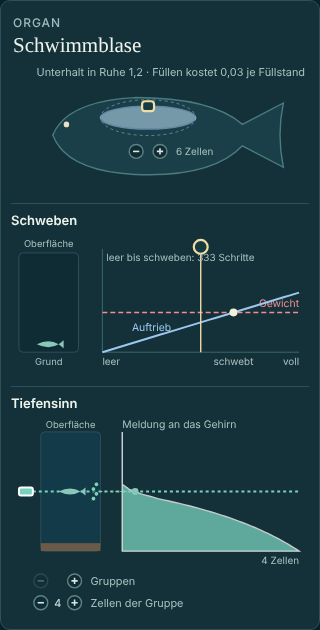
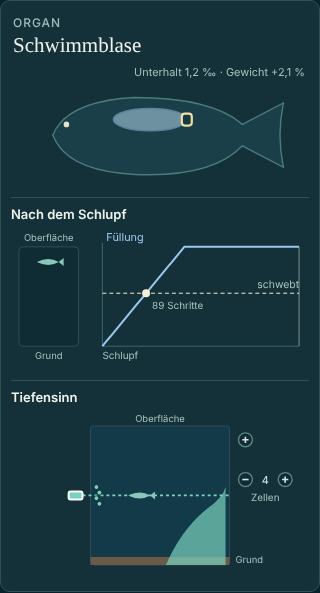
Entwurf Schwimmblase nach Fables Gegenprüfung: Kapazität als Größe der Blase gezogen (0–8), Füllzeit 200·(1+c)/c², Bild nach dem Schlupf statt Füllgriffen, Tiefensinn ohne eigenes Meldungsbild in der Wassersäule
Claude-Session: https://claude.ai/code/session_01SAD6gcsuZjdDe9bFzLa7Yk

diff --git a/entwuerfe/inspektoren.html b/entwuerfe/inspektoren.html
@@ -148,7 +148,7 @@ svg text.value{fill:var(--text);font-variant-numeric:tabular-nums}
   <section class="panel" aria-label="Schwimmblase">
     <h2>Organ</h2><h3>Schwimmblase</h3>
     <svg id="bladfish" viewBox="0 0 300 124"></svg>
-    <h4>Schweben</h4>
+    <h4>Nach dem Schlupf</h4>
     <svg id="bladfill" viewBox="0 0 300 138"></svg>
     <h4>Tiefensinn</h4>
     <svg id="bladsense" viewBox="0 0 300 200"></svg>
@@ -1716,114 +1716,98 @@ function drawBarbels() {
 }
 
 // ---------- Blase ----------
-// Swim bladder (movement.cc:127–133, body_plan.cc:969, 1310–1318, 1500–1506, 1639,
-// physiology_parameters.cc: sinking 0.012, bladder_strength 0.03, bladder_rate 0.002, bladder_cost
-// 0.03). Its cells make its capacity c (here 0.25 a cell); driven positive they fill it, negative
-// they empty it: fill += 0.002·(filling − emptying) a step, paying 0.03 per unit of fill. Its lift
-// per mass is 0.03·c/(1 + c)·fill against a sinking of 0.012: the fish floats where they are equal,
-// at fill 0.4·(1 + c)/c; below c = 2/3 the bladder never carries the fish. Its pressure cells
-// feel how deep the fish is, from the surface (0) to the ground (1), not how full the bladder is
-// (Fable 19:06), bounded, without getting used to it.
-// Above: the fish with its bladder, as large as its cells make it, as full as tried. Middle: the
-// water from the surface to the ground; the fish rises or sinks with the tried fill, and the lift
-// against the weight shows where it floats. Below: the depth sense, the water column itself as the
-// gauge, like the stomach for satiety.
-const BLAD = {cells : 6, fill : .5, groups : [.5], groupCells : [4], groupSpread : [.06], chosen : 0, depth : .5};
-const bladCap = () => .25 * BLAD.cells, bladLift = f => .03 * bladCap() / (1 + bladCap()) * f, SINKING = .012;
-const BLADFILM = {fish : null, y : .5, v : 0};
+// Swim bladder (Fable 19:23; movement.cc:127–133, body_plan.cc:386–397, 925–969, 1313–1318,
+// 1500–1503, 1639). Its capacity c is the summed strength of its living cells (a group is one cell,
+// its strength the atelier's sixteenths; 1 to 8 groups, 3 to begin with): 0 to 8. Its lift per mass
+// is 0.03·c/(1 + c)·fill against a sinking of 0.012, so it floats at fill 0.4·(1 + c)/c and never
+// below c = 2/3. A full command fills it by 0.002·c a step, so from empty to floating takes
+// 200·(1 + c)/c² steps; the fill stays without cost, filling and emptying cost 0.03 per unit; upkeep
+// 0.0004·c, weight 0.007·c. Every fish hatches empty and sinks until it has filled. Its pressure
+// cells feel the depth, from the surface (0) to the ground (1) of this water, not the fill.
+// Above: the fish with its bladder, dragged larger or smaller (that is c). Middle: after hatching,
+// at full command, the fill over time with the line where it floats, and the fish rising in the
+// water. Below: the depth sense, the water column itself as the gauge.
+const BLAD = {cap : 3, groups : [.5], groupCells : [4], groupSpread : [.06], chosen : 0, depth : .5};
+const bladLift = f => .03 * BLAD.cap / (1 + BLAD.cap) * f, SINKING = .012;
+const BLADFILM = {fish : null};
 function drawBladder() {
   const svg = document.getElementById('bladfish'); svg.replaceChildren();
-  const B = BLAD, redraw = drawBladder, c = bladCap(), hover = .4 * (1 + c) / c;
-  txt(svg, 296, 12, `Unterhalt in Ruhe ${fmt(B.cells * .0004 * 480)} · Füllen kostet 0,03 je Füllstand`, {'text-anchor' : 'end'});
+  const B = BLAD, redraw = drawBladder, c = B.cap;
+  txt(svg, 296, 12, `Unterhalt ${fmt(.0004 * c * 1000)} ‰ · Gewicht +${fmt(.7 * c)} %`, {'text-anchor' : 'end'});
   const body = el('g', {transform : 'translate(30 14) scale(.86 .9)'}, svg);
   el('path', {d : BODY, fill : '#1b3f48', stroke : '#4a7c7e', 'vector-effect' : 'non-scaling-stroke', 'stroke-width' : 1.4}, body);
   el('circle', {cx : 30, cy : 52, r : 3.2, fill : '#e9e2c6'}, body);
-  // The bladder above the gut, between head and tail: long as its cells, round as its fill.
-  const cx = 138, cy = 54, rx = 18 + 5 * Math.min(B.cells, 12), ry = 5 + 13 * B.fill;
-  el('ellipse', {cx, cy, rx, ry : 18, fill : 'none', stroke : '#9cc8f0', 'stroke-dasharray' : '3 3', opacity : .5}, svg);
-  el('ellipse', {cx, cy, rx, ry, fill : '#bfe3f7', opacity : .55, stroke : '#9cc8f0', 'stroke-width' : 1.4}, svg);
-  signChip(svg, cx - 12, cy + 34, '−', () => { B.cells = Math.max(1, B.cells - 1); redraw(); }, B.cells > 1, 7);
-  signChip(svg, cx + 12, cy + 34, '+', () => { B.cells = Math.min(16, B.cells + 1); redraw(); }, B.cells < 16, 7);
-  txt(svg, cx + 28, cy + 38, B.cells + ' Zellen', {style : 'font-size:10px'});
-  // The tried fill: the bladder's top edge.
-  drag(svg, el('rect', {x : cx - 6, y : cy - ry - 5, width : 12, height : 10, rx : 3}, svg), q => { B.fill = clamp((cy - q.y - 5) / 13, 0, 1); redraw(); }, 'bladfill');
-  svg.setAttribute('viewBox', '0 0 300 124');
-  drawBladLift(hover); drawBladSense();
+  // The bladder above the gut: its length is its capacity; drawn half full.
+  const cx = 140, cy = 56, rx = 10 + 9 * c, ry = 7 + 1.4 * c;
+  el('ellipse', {cx, cy, rx, ry, fill : '#bfe3f7', opacity : .5, stroke : '#9cc8f0', 'stroke-width' : 1.4}, svg);
+  drag(svg, el('rect', {x : cx + rx - 5, y : cy - 6, width : 10, height : 12, rx : 3}, svg), q => { B.cap = clamp((q.x - cx - 10) / 9, 0, 8); redraw(); }, 'bladcap');
+  if (c < 2 / 3) txt(svg, cx, cy + ry + 16, 'zu klein: trägt den Fisch nie', {'text-anchor' : 'middle', style : 'fill:#ef8f8f;font-size:10.5px'});
+  svg.setAttribute('viewBox', '0 0 300 118');
+  drawBladLife(); drawBladSense();
 }
-// ---- Lift against weight over the fill; where they meet the fish floats; at the left the water
-// with the fish rising or sinking at the tried fill. ----
-function drawBladLift(hover) {
+// ---- From hatching: the fill under full command, the fill it floats at, and the fish rising. ----
+function drawBladLife() {
   const c = document.getElementById('bladfill'); c.replaceChildren();
-  const L = 92, R = 290, top = 20, base = 120, most = .03, X = f => L + (R - L) * f, Y = v => base - (base - top) * v / most;
+  const cap = BLAD.cap, hover = cap > 0 ? .4 * (1 + cap) / cap : Infinity, rate = .002 * cap, N = clamp(Math.ceil(2.4 / Math.max(rate, 1e-4) / 50) * 50, 100, 600);
+  const L = 92, R = 290, top = 20, base = 120, X = st => L + (R - L) * st / N, Y = f => base - (base - top) * f;
   el('rect', {x : 8, y : top, width : 60, height : base - top, rx : 4, fill : '#0f2c34', stroke : '#2d5059'}, c);
   txt(c, 38, top - 6, 'Oberfläche', {'text-anchor' : 'middle', style : 'font-size:9.5px'}); txt(c, 38, base + 13, 'Grund', {'text-anchor' : 'middle', style : 'font-size:9.5px'});
-  BLADFILM.fish = el('g', {}, c); BLADFILM.top = top; BLADFILM.base = base;
+  BLADFILM.fish = el('g', {}, c); BLADFILM.top = top; BLADFILM.base = base; BLADFILM.N = N; BLADFILM.X = X; BLADFILM.Y = Y;
   el('path', {d : `M${L} ${base} H${R} M${L} ${base} V${top - 4}`, stroke : '#3b6a6c', fill : 'none'}, c);
-  el('path', {d : `M${L} ${Y(SINKING)} H${R}`, stroke : '#ef8f8f', 'stroke-width' : 1.6, 'stroke-dasharray' : '5 3'}, c);
-  txt(c, R, Y(SINKING) - 5, 'Gewicht', {'text-anchor' : 'end', style : 'fill:#ef8f8f;font-size:10.5px'});
-  el('path', {d : 'M' + Array.from({length : 41}, (_, k) => `${X(k / 40).toFixed(1)} ${Y(bladLift(k / 40)).toFixed(1)}`).join(' L'), stroke : '#9cc8f0', 'stroke-width' : 2, fill : 'none'}, c);
-  txt(c, X(.25), Y(bladLift(.25)) - 6, 'Auftrieb', {'text-anchor' : 'middle', style : 'fill:#9cc8f0;font-size:10.5px'});
-  if (hover <= 1) { el('circle', {cx : X(hover), cy : Y(SINKING), r : 4, fill : '#f4efd8'}, c); txt(c, X(hover), base + 13, 'schwebt', {'text-anchor' : 'middle', style : 'font-size:10px'}); }
-  else txt(c, (L + R) / 2, top + 10, 'trägt den Fisch nie', {'text-anchor' : 'middle', style : 'fill:#ef8f8f'});
-  const fx = X(BLAD.fill);
-  el('path', {d : `M${fx} ${top - 6} V${base}`, stroke : '#f1dda6', 'stroke-width' : 1.4}, c);
-  drag(c, el('circle', {cx : fx, cy : top - 6, r : 7}, c), q => { BLAD.fill = clamp((q.x - L) / (R - L), 0, 1); drawBladder(); }, 'bladfill2');
-  txt(c, L, base + 13, 'leer', {style : 'font-size:10px'}); txt(c, R, base + 13, 'voll', {'text-anchor' : 'end', style : 'font-size:10px'});
-  // How long the bladder needs from empty to floating, at full command.
-  if (hover <= 1) txt(c, L + 4, top + 8, `leer bis schweben: ${Math.round(hover / .002)} Schritte`, {style : 'font-size:10px'});
+  el('path', {d : 'M' + Array.from({length : 61}, (_, k) => { const st = N * k / 60; return `${X(st).toFixed(1)} ${Y(Math.min(1, rate * st)).toFixed(1)}`; }).join(' L'), stroke : '#9cc8f0', 'stroke-width' : 2, fill : 'none'}, c);
+  txt(c, L + 4, top - 6, 'Füllung', {style : 'fill:#9cc8f0'});
+  if (hover <= 1) {
+    el('path', {d : `M${L} ${Y(hover)} H${R}`, stroke : '#f4efd8', 'stroke-dasharray' : '4 3'}, c);
+    const t = hover / rate; txt(c, R, Y(hover) - 5, 'schwebt', {'text-anchor' : 'end', style : 'font-size:10.5px'});
+    if (t <= N) { el('circle', {cx : X(t), cy : Y(hover), r : 4, fill : '#f4efd8'}, c); txt(c, X(t) + 6, Y(hover) + 16, Math.round(t) + ' Schritte', {style : 'font-size:10px'}); }
+  } else txt(c, (L + R) / 2, top + 30, 'trägt den Fisch nie', {'text-anchor' : 'middle', style : 'fill:#ef8f8f'});
+  txt(c, L, base + 13, 'Schlupf', {style : 'font-size:10px'});
   c.setAttribute('viewBox', '0 0 300 ' + (base + 18));
 }
-// ---- The depth sense: the water column as the gauge, the groups' depths as lines with their
-// cells as points; at the right how many cells report at every depth. ----
+// ---- The depth sense: the water column is the gauge. Each group's depth a line with its cells as
+// points; inside the column, at every depth, a band as wide as the cells that report there. ----
 function drawBladSense() {
   const svg = document.getElementById('bladsense'); svg.replaceChildren();
-  const B = BLAD, top = 16, base = 136, W0 = 30, W1 = 90, Yd = d => top + (base - top) * d;
+  const B = BLAD, top = 16, base = 156, W0 = 80, W1 = 220, Yd = d => top + (base - top) * d;
   el('rect', {x : W0, y : top, width : W1 - W0, height : base - top, rx : 4, fill : '#123a48', stroke : '#2d5059'}, svg);
   el('rect', {x : W0, y : base - 8, width : W1 - W0, height : 8, fill : '#6b5a48'}, svg);
   txt(svg, (W0 + W1) / 2, top - 4, 'Oberfläche', {'text-anchor' : 'middle', style : 'font-size:9.5px'});
   const gates = i => { const n = B.groupCells[i], w = B.groupSpread[i]; return Array.from({length : n}, (_, j) => clamp(B.groups[i] + (n > 1 ? w * (2 * j / (n - 1) - 1) : 0), .03, .97)); };
-  B.groups.forEach((g, i) => {
-    el('path', {d : `M${W0 - 14} ${Yd(g)} H${290}`, stroke : groupColour(i), 'stroke-dasharray' : '3 3', 'stroke-width' : i === B.chosen ? 1.8 : 1.1}, svg);
-    gates(i).forEach((d, j) => el('circle', {cx : W1 - 4 - 3 * (j % 2), cy : Yd(d), r : 2.4, fill : groupColour(i), stroke : '#0d262c', 'stroke-width' : .8}, svg));
-    const gr = el('rect', {x : W0 - 22, y : Yd(g) - 4, width : 14, height : 8, rx : 2, style : `fill:${groupColour(i)};stroke:${i === B.chosen ? '#ffffff' : '#0d262c'};stroke-width:${i === B.chosen ? 2 : 1}`}, svg);
-    drag(svg, gr, q => { B.groups[i] = clamp((q.y - top) / (base - top), .03, .97); B.chosen = i; drawBladSense(); }, 'bladgate' + i);
-  });
-  // The tried depth: the fish in the column, dragged.
-  const fy = Yd(B.depth);
-  el('path', {d : `M${(W0 + W1) / 2 - 12} ${fy} q12 -6 22 0 q-10 6 -22 0 z M${(W0 + W1) / 2 + 10} ${fy} l5 -4 v8 z`, fill : '#8ac7bb'}, svg);
-  drag(svg, el('circle', {cx : (W0 + W1) / 2, cy : fy, r : 12, style : 'fill:transparent;stroke:none'}, svg), q => { B.depth = clamp((q.y - top) / (base - top), 0, 1); drawBladSense(); }, 'bladdepth');
-  // Reports: how many cells report at every depth (bounded, the deeper the more).
-  const L = 112, R = 290, M = 100, sums = B.groups.map((_, i) => Array.from({length : M + 1}, (_, k) => gates(i).reduce((t, gg) => t + boundedAnswer(k / M, gg), 0)));
-  const most = B.groupCells.reduce((t, n) => t + n, 0), X = v => L + (R - L) * v / most;
-  el('path', {d : `M${L} ${top} V${base} H${R}`, stroke : '#3b6a6c', fill : 'none'}, svg);
-  txt(svg, L, top - 4, 'Meldung an das Gehirn', {style : 'font-size:10.5px'});
+  const M = 100, sums = B.groups.map((_, i) => Array.from({length : M + 1}, (_, k) => gates(i).reduce((t, gg) => t + boundedAnswer(k / M, gg), 0)));
+  const most = Math.max(1, B.groupCells.reduce((t, n) => t + n, 0)), BW = 60, BX = v => W1 - 4 - BW * v / most;
   let under = Array(M + 1).fill(0);
   B.groups.forEach((_, i) => { const over = under.map((u, k) => u + sums[i][k]);
-    const band = el('path', {d : 'M' + over.map((v, k) => `${X(v).toFixed(1)} ${Yd(k / M).toFixed(1)}`).join(' L') + ' L' + under.map((v, k) => [k, v]).reverse().map(([k, v]) => `${X(v).toFixed(1)} ${Yd(k / M).toFixed(1)}`).join(' L') + 'Z', fill : groupColour(i), opacity : .75, stroke : i === B.chosen ? '#ffffff' : '#0d262c', 'stroke-width' : i === B.chosen ? 1.4 : .6, class : 'chip'}, svg);
+    const band = el('path', {d : 'M' + over.map((v, k) => `${BX(v).toFixed(1)} ${Yd(k / M).toFixed(1)}`).join(' L') + ' L' + under.map((v, k) => [k, v]).reverse().map(([k, v]) => `${BX(v).toFixed(1)} ${Yd(k / M).toFixed(1)}`).join(' L') + 'Z', fill : groupColour(i), opacity : .7, class : 'chip'}, svg);
     band.addEventListener('pointerdown', () => { B.chosen = i; drawBladSense(); }); under = over; });
-  const now = sums.reduce((t, a) => t + a[Math.round(B.depth * M)], 0);
-  el('path', {d : `M${W1} ${fy} H${X(now)}`, stroke : '#8ac7bb', 'stroke-dasharray' : '2 3'}, svg);
-  el('circle', {cx : X(now), cy : fy, r : 3.5, fill : '#8ac7bb'}, svg);
-  txt(svg, R, base + 13, most + ' Zellen', {'text-anchor' : 'end', style : 'font-size:10px'});
-  // Groups and cells.
-  const c = B.chosen, y1 = base + 30, y2 = base + 52;
-  signChip(svg, 30, y1, '−', () => { for (const k of ['groups', 'groupCells', 'groupSpread']) B[k].splice(c, 1); B.chosen = 0; drawBladSense(); }, B.groups.length > 1, 7);
-  signChip(svg, 64, y1, '+', () => { B.groups.push(clamp(B.groups[c] + .25, .05, .95)); B.groupCells.push(4); B.groupSpread.push(.06); B.chosen = B.groups.length - 1; drawBladSense(); }, B.groups.length < 3, 7);
-  txt(svg, 80, y1 + 4, 'Gruppen');
-  signChip(svg, 30, y2, '−', () => { B.groupCells[c] = Math.max(1, B.groupCells[c] - 1); drawBladSense(); }, B.groupCells[c] > 1, 7);
-  txt(svg, 47, y2 + 4, B.groupCells[c], {'text-anchor' : 'middle', class : 'value'});
-  signChip(svg, 64, y2, '+', () => { B.groupCells[c] = Math.min(16, B.groupCells[c] + 1); drawBladSense(); }, B.groupCells[c] < 16, 7);
-  txt(svg, 80, y2 + 4, 'Zellen der Gruppe');
-  svg.setAttribute('viewBox', `0 0 300 ${y2 + 12}`);
+  B.groups.forEach((g, i) => {
+    el('path', {d : `M${W0 - 14} ${Yd(g)} H${W1}`, stroke : groupColour(i), 'stroke-dasharray' : '3 3', 'stroke-width' : i === B.chosen ? 1.8 : 1.1}, svg);
+    gates(i).forEach((d, j) => el('circle', {cx : W0 + 6 + 3 * (j % 2), cy : Yd(d), r : 2.4, fill : groupColour(i), stroke : '#0d262c', 'stroke-width' : .8}, svg));
+    drag(svg, el('rect', {x : W0 - 22, y : Yd(g) - 4, width : 14, height : 8, rx : 2, style : `fill:${groupColour(i)};stroke:${i === B.chosen ? '#ffffff' : '#0d262c'};stroke-width:${i === B.chosen ? 2 : 1}`}, svg), q => { B.groups[i] = clamp((q.y - top) / (base - top), .03, .97); B.chosen = i; drawBladSense(); }, 'bladgate' + i);
+  });
+  const fy = Yd(B.depth), fx = (W0 + W1) / 2 - 20;
+  el('path', {d : `M${fx - 12} ${fy} q12 -6 22 0 q-10 6 -22 0 z M${fx + 10} ${fy} l5 -4 v8 z`, fill : '#8ac7bb'}, svg);
+  drag(svg, el('circle', {cx : fx, cy : fy, r : 12, style : 'fill:transparent;stroke:none'}, svg), q => { B.depth = clamp((q.y - top) / (base - top), 0, 1); drawBladSense(); }, 'bladdepth');
+  txt(svg, W1 + 6, base - 2, 'Grund', {style : 'font-size:9.5px'});
+  // Groups and cells, beside the column.
+  const c = B.chosen, x0 = 236;
+  signChip(svg, x0, 30, '+', () => { B.groups.push(clamp(B.groups[c] + .25, .05, .95)); B.groupCells.push(4); B.groupSpread.push(.06); B.chosen = B.groups.length - 1; drawBladSense(); }, B.groups.length < 3, 7);
+  if (B.groups.length > 1) signChip(svg, x0 + 20, 30, '×', () => { for (const k of ['groups', 'groupCells', 'groupSpread']) B[k].splice(c, 1); B.chosen = 0; drawBladSense(); }, true, 7);
+  signChip(svg, x0, 70, '−', () => { B.groupCells[c] = Math.max(1, B.groupCells[c] - 1); drawBladSense(); }, B.groupCells[c] > 1, 7);
+  txt(svg, x0 + 20, 74, B.groupCells[c], {'text-anchor' : 'middle', class : 'value'});
+  signChip(svg, x0 + 40, 70, '+', () => { B.groupCells[c] = Math.min(16, B.groupCells[c] + 1); drawBladSense(); }, B.groupCells[c] < 16, 7);
+  txt(svg, x0 + 20, 92, 'Zellen', {'text-anchor' : 'middle', style : 'font-size:10px'});
+  svg.setAttribute('viewBox', `0 0 300 ${base + 12}`);
 }
-// The fish in the water column rises or sinks with the tried fill and stops at surface or ground.
-function bladFrame() {
+// The fish in the water column: hatched empty at the ground, rising as the bladder fills; a loop.
+function bladFrame(now) {
   requestAnimationFrame(bladFrame);
   const f = BLADFILM; if (!f.fish?.isConnected) return;
-  const net = bladLift(BLAD.fill) - SINKING;
-  f.v = f.v * .9 - net * .4; f.y = clamp(f.y + f.v, 0, 1); if (f.y <= 0 || f.y >= 1) f.v = 0;
-  const y = f.top + 8 + (f.base - f.top - 16) * f.y;
-  f.fish.innerHTML = `<path d="M26 ${y.toFixed(1)} q12 -6 22 0 q-10 6 -22 0 z M48 ${y.toFixed(1)} l5 -4 v8 z" fill="#8ac7bb"/>`;
+  const st = (now / 8) % (f.N + 120), fill = Math.min(1, .002 * BLAD.cap * Math.min(st, f.N));
+  if (!f.y || st < 2) { f.y = 1; f.v = 0; }
+  const net = bladLift(fill) - SINKING;
+  f.v = f.v * .92 - net * .3; f.y = clamp(f.y + f.v, 0, 1); if (f.y <= 0 || f.y >= 1) f.v = 0;
+  const y = f.top + 8 + (f.base - f.top - 16) * f.y, x = f.X(Math.min(st, f.N));
+  f.fish.innerHTML = `<path d="M26 ${y.toFixed(1)} q12 -6 22 0 q-10 6 -22 0 z M48 ${y.toFixed(1)} l5 -4 v8 z" fill="#8ac7bb"/><path d="M${x.toFixed(1)} ${f.top} V${f.base}" stroke="#f4efd8" stroke-width="1" opacity=".5"/>`;
 }
 requestAnimationFrame(bladFrame);
 
